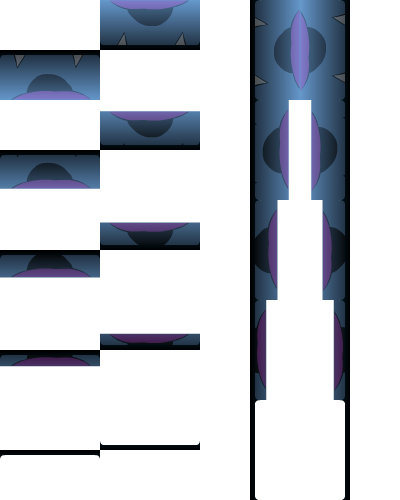
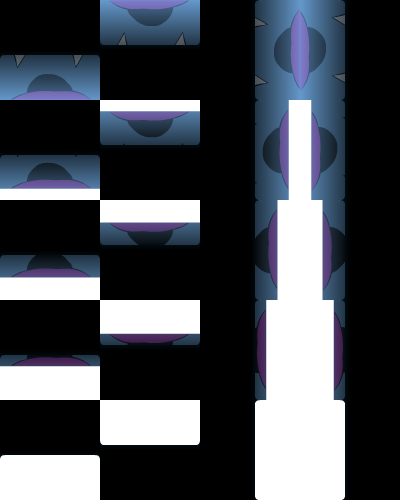
Draw-order
- pygame has something similar and possibly better, but it doesn't mesh
well with what we have.
- hopefully fixed an awkward glitch where the door wouldn't be perfectly
set in the wall.

diff --git a/Mapper/terrain/__init__.py b/Mapper/terrain/__init__.py
@@ -5,6 +5,58 @@ class Tile(object):
     def __init__(self):
         pass
 
+class SpriteList(object):
+    def __init__(self, entities=[], **kwargs):
+        self.default_layer = 0
+        if "default_layer" in kwargs:
+            self.default_layer = kwargs["default_layer"]
+
+        self._entities = []  # kept as a sorted dict: [(layer, [elements])]
+        for x in entities:
+            self.add(x)
+
+    def add(self, sprite, layer=None):
+        if layer is None:  # layer > sprite_layer > default layer
+            layer = self.default_layer
+            if "layer" in sprite.__dict__:
+                layer = sprite.layer
+        sprite.layer = layer
+
+        exists, ind = self.index(layer)
+        if not exists:
+            self._entities.insert(ind, (layer, []))
+        self._entities[ind][1].append(sprite)
+
+    def index(self, layer):
+        top = 0
+        bot = len(self._entities)
+
+        while top < bot:
+            mid = (bot - top) // 2 + top
+            mid_layer = self._entities[mid][0]
+            if mid_layer < layer:  # go lower
+                top = mid + 1
+            elif mid_layer > layer: # go higher
+                bot = mid
+            else:
+                return (True, mid)
+        return (False, bot)
+
+    def __iter__(self):
+        for _, layer in self._entities:
+            for x in layer:
+                yield x
+
+    def discard(self, sprite):
+        exists, ind = self.index(sprite.layer)
+        if not exists:
+            return False
+        for i, x in enumerate(self._entities[ind][1]):
+            if x is sprite:
+                del self._entities[ind][1][i]
+                return True
+        return False
+
 
 class Room(object):
     TPS = 15  # Tiles per Square
@@ -16,10 +68,11 @@ class Room(object):
             map(self.resize, (len(self.map[0]), len(self.map))))
         self.impassible = impassible
         self.roomds = roomds
-        self.entities = set(entities)
+        self._entities = SpriteList(entities)
         self.transitions = {}
         self.redraw()
 
+    entities = property(lambda self: self._entities)  # prevents magic: feel free to remove when all magic has been eliminated
     pos = property(lambda self: (self.roomds.x, self.roomds.y))
     x = property(lambda self: self.roomds.x)
     y = property(lambda self: self.roomds.y)

diff --git a/Mapper/terrain/rooms.py b/Mapper/terrain/rooms.py
@@ -140,14 +140,14 @@ TILESET4 = pygame.image.load("imgs/dungeon_blu.png")
 
 class Dungeon(Room):
     def __init__(self, room):
-        self.entities = set()
-        map_data = self.generate_room(room)
+        map_data, entities = self.generate_room(room)
         impassible = tuple(((x, y) for x in xrange(9) for y in xrange(7)
             if (x, y) not in ((2, 1), )))
         super(Dungeon, self).__init__(map_data, (TILESET4, impassible),
-            room, self.entities)
+            room, entities)
 
     def generate_room(self, room):
+        entities = set()
         width = room.w * Room.TPS
         height = room.h * Room.TPS
         toR = [[(0, 0)] + [(2, 0)] * (width - 2) + [(8, 0)]] + [
@@ -165,24 +165,24 @@ class Dungeon(Room):
                 toR[0][x] = (2, 1)
                 toR[0][x + 1] = (2, 1)
                 toR[0][x + 2] = (6, 0)
-                self.entities.add(DoorAI(map(lambda q: q * 50, (x, -1)), 0))
+                entities.add(DoorAI(map(lambda q: q * 50, (x, -1)), 0))
             elif dr == 2:
                 toR[y - 1][-1] = (8, 2)
                 toR[y][-1] = (2, 1)
                 toR[y + 1][-1] = (2, 1)
                 toR[y + 2][-1] = (8, 5)
-                self.entities.add(DoorAI(map(lambda q: q * 50, (width - 1, y)), 3))
+                entities.add(DoorAI(map(lambda q: q * 50, (width - 1, y)), 3))
             elif dr == 4:
                 toR[-1][x - 1] = (3, 6)
                 toR[-1][x] = (2, 1)
                 toR[-1][x + 1] = (2, 1)
                 toR[-1][x + 2] = (6, 6)
-                self.entities.add(DoorAI(map(lambda q: q * 50, (x, height - 1)), 1))
+                entities.add(DoorAI(map(lambda q: q * 50, (x, height - 1)), 1))
             elif dr == 8:
                 toR[y - 1][0] = (0, 2)
                 toR[y][0] = (2, 1)
                 toR[y + 1][0] = (2, 1)
                 toR[y + 2][0] = (0, 5)
-                self.entities.add(DoorAI(map(lambda q: q * 50, (-1, y)), 2))
+                entities.add(DoorAI(map(lambda q: q * 50, (-1, y)), 2))
 
-        return toR
+        return toR, entities

diff --git a/Mapper/ui/overworld_ui.py b/Mapper/ui/overworld_ui.py
@@ -161,6 +161,7 @@ class OverworldUI(GameplayUI):
     def reblit(self, surf, time_passed):
         super(OverworldUI, self).reblit(surf, time_passed)
         center = self.slime.centerx - 300, self.slime.centery - 225
+        center = map(int, center)
         for t in self.terrain:
             t.reblit(surf, time_passed, center, self.room_data.pos)
         for u in self.ui:
@@ -171,6 +172,7 @@ class DungeonUI(GameplayUI):
     def reblit(self, surf, time_passed):
         super(DungeonUI, self).reblit(surf, time_passed)
         center = self.slime.centerx - 300, self.slime.centery - 225
+        center = map(int, center)
         #center = min(max(center[0], 0), Room.TPS * 50 * self.room_data.w - 600),\
         #         min(max(center[1], 0), Room.TPS * 50 * self.room_data.h - 450)
         self.room_data.reblit(surf, time_passed, center, self.room_data.pos)

diff --git a/Mapper/sprites/slime.py b/Mapper/sprites/slime.py
@@ -20,4 +20,4 @@ class SlimeAI(Sprite):
             "downleft", "left", "upleft"])
             for i, d in enumerate(["", "idle"], 1)}, ("downright", "idle"))
         super(SlimeAI, self).__init__(animations, (x, y))
-        self.layer = 15
+        self.layer = 5
